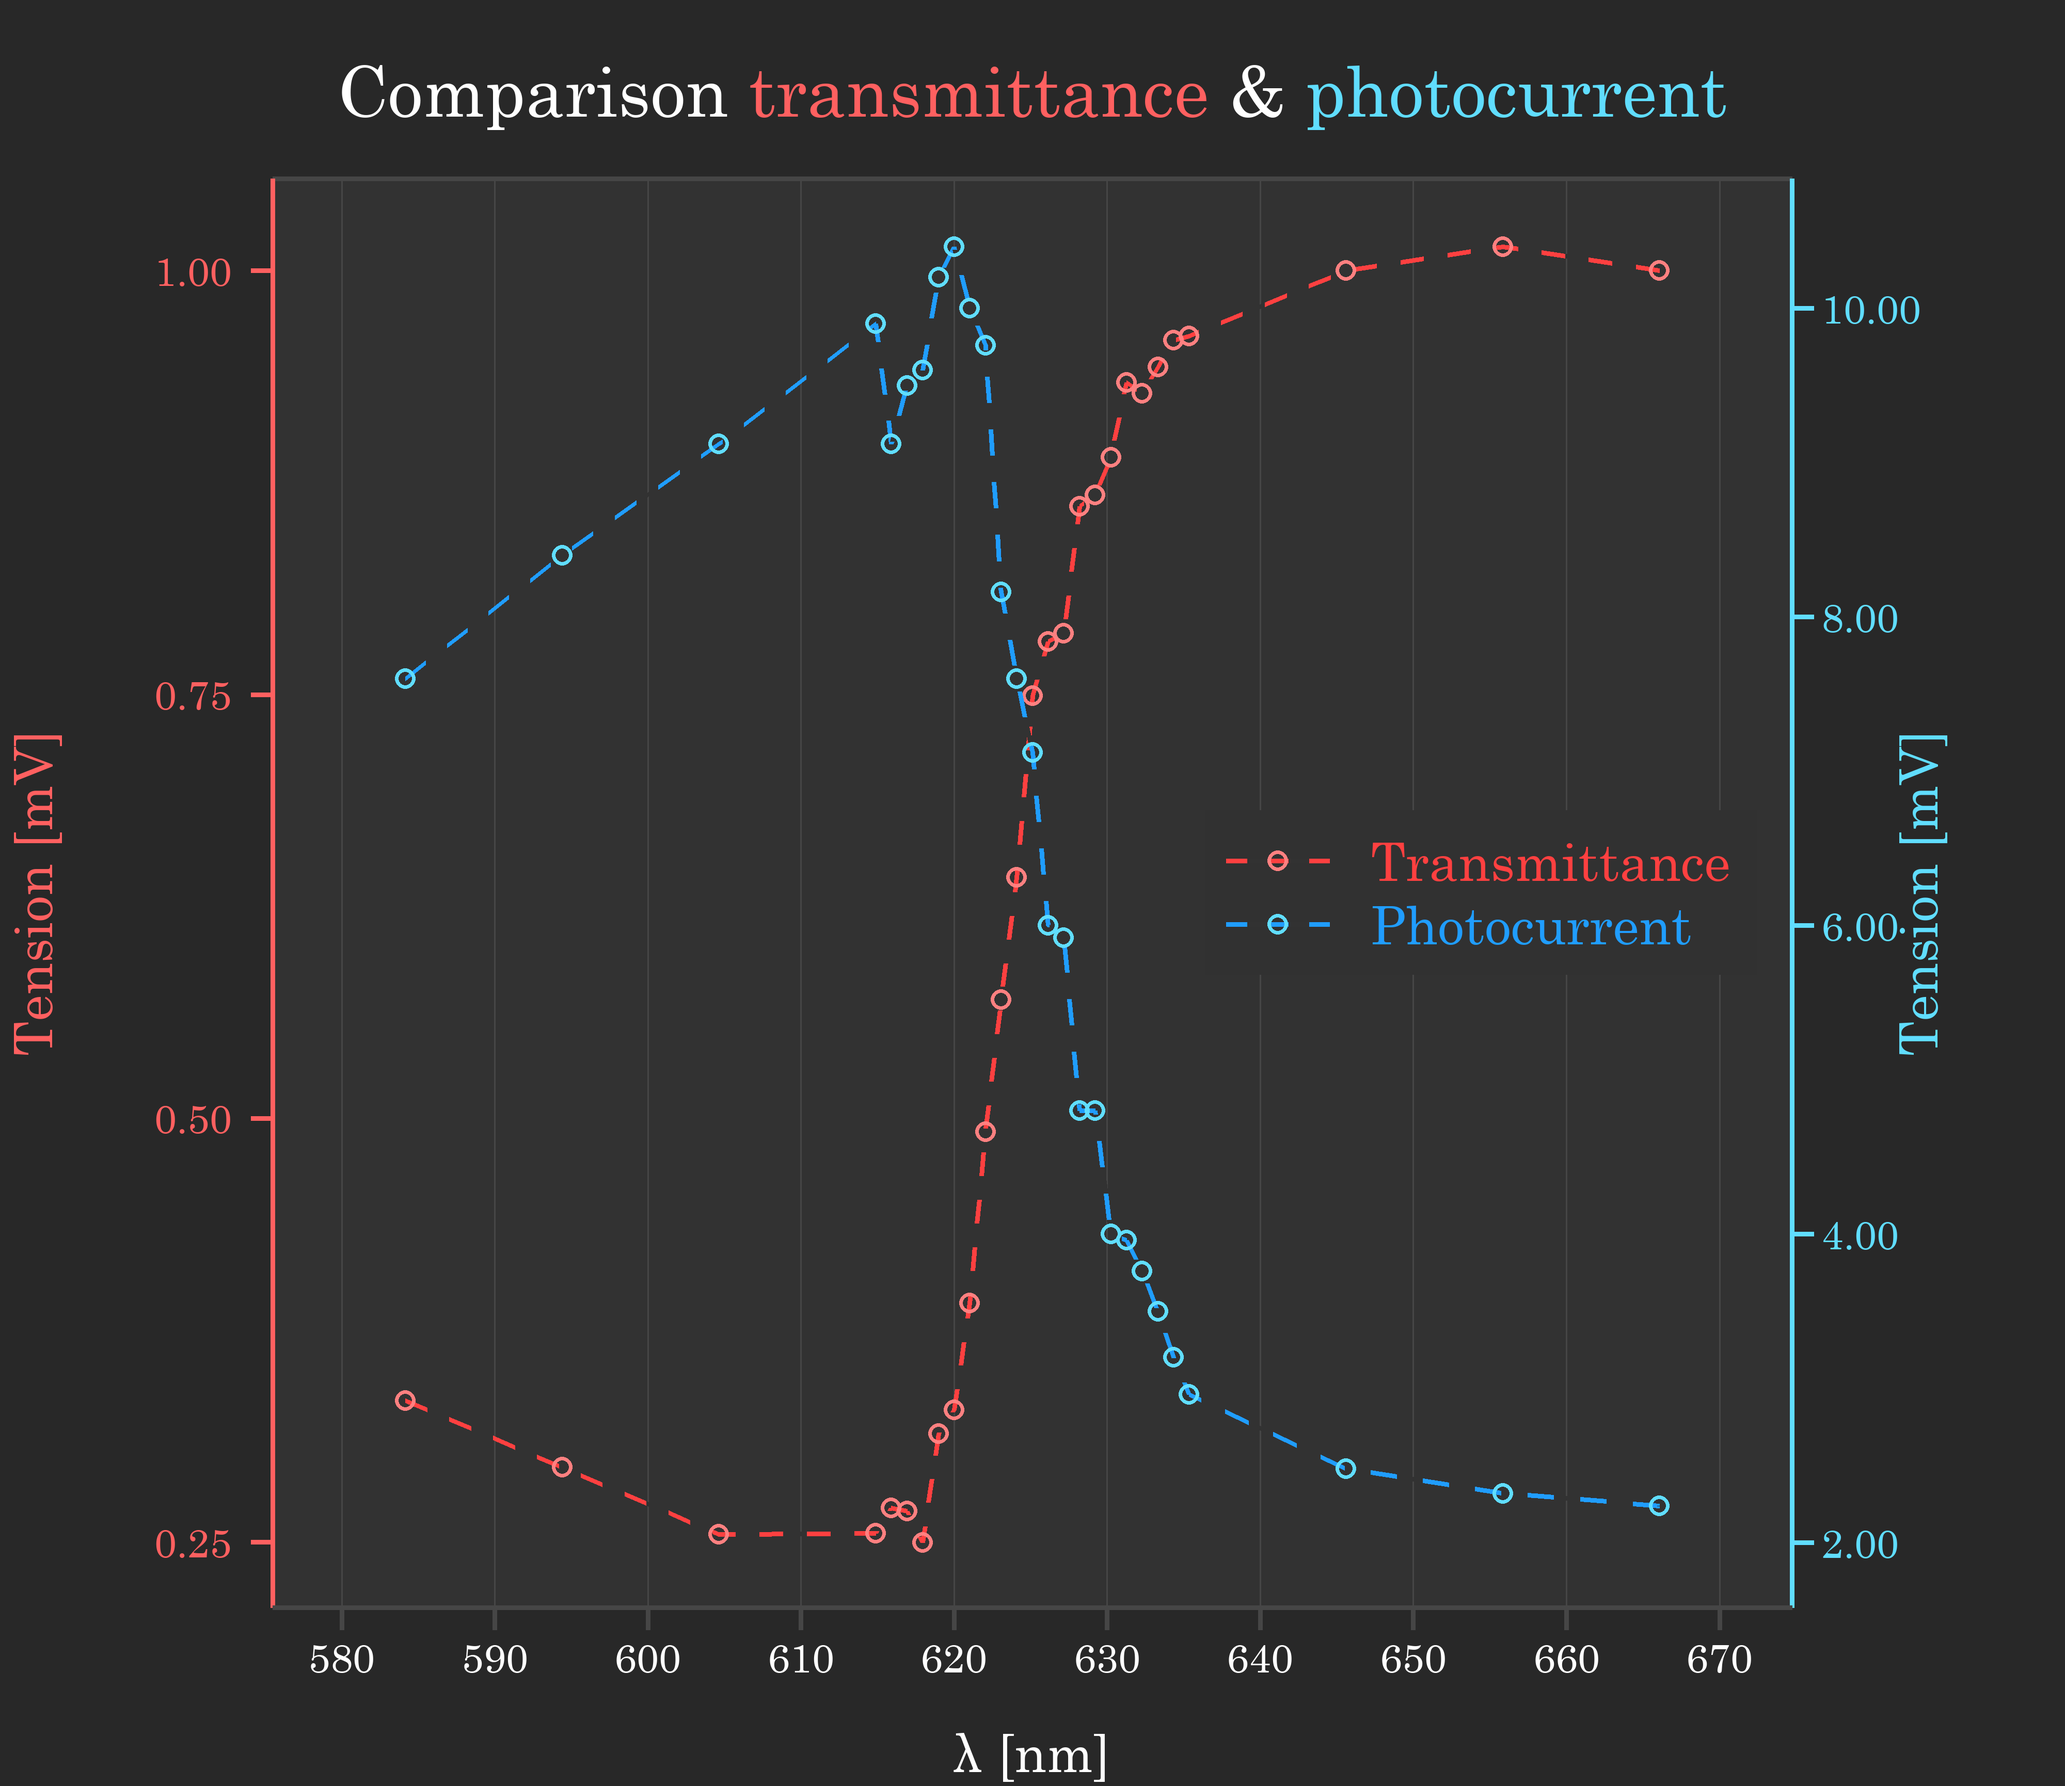
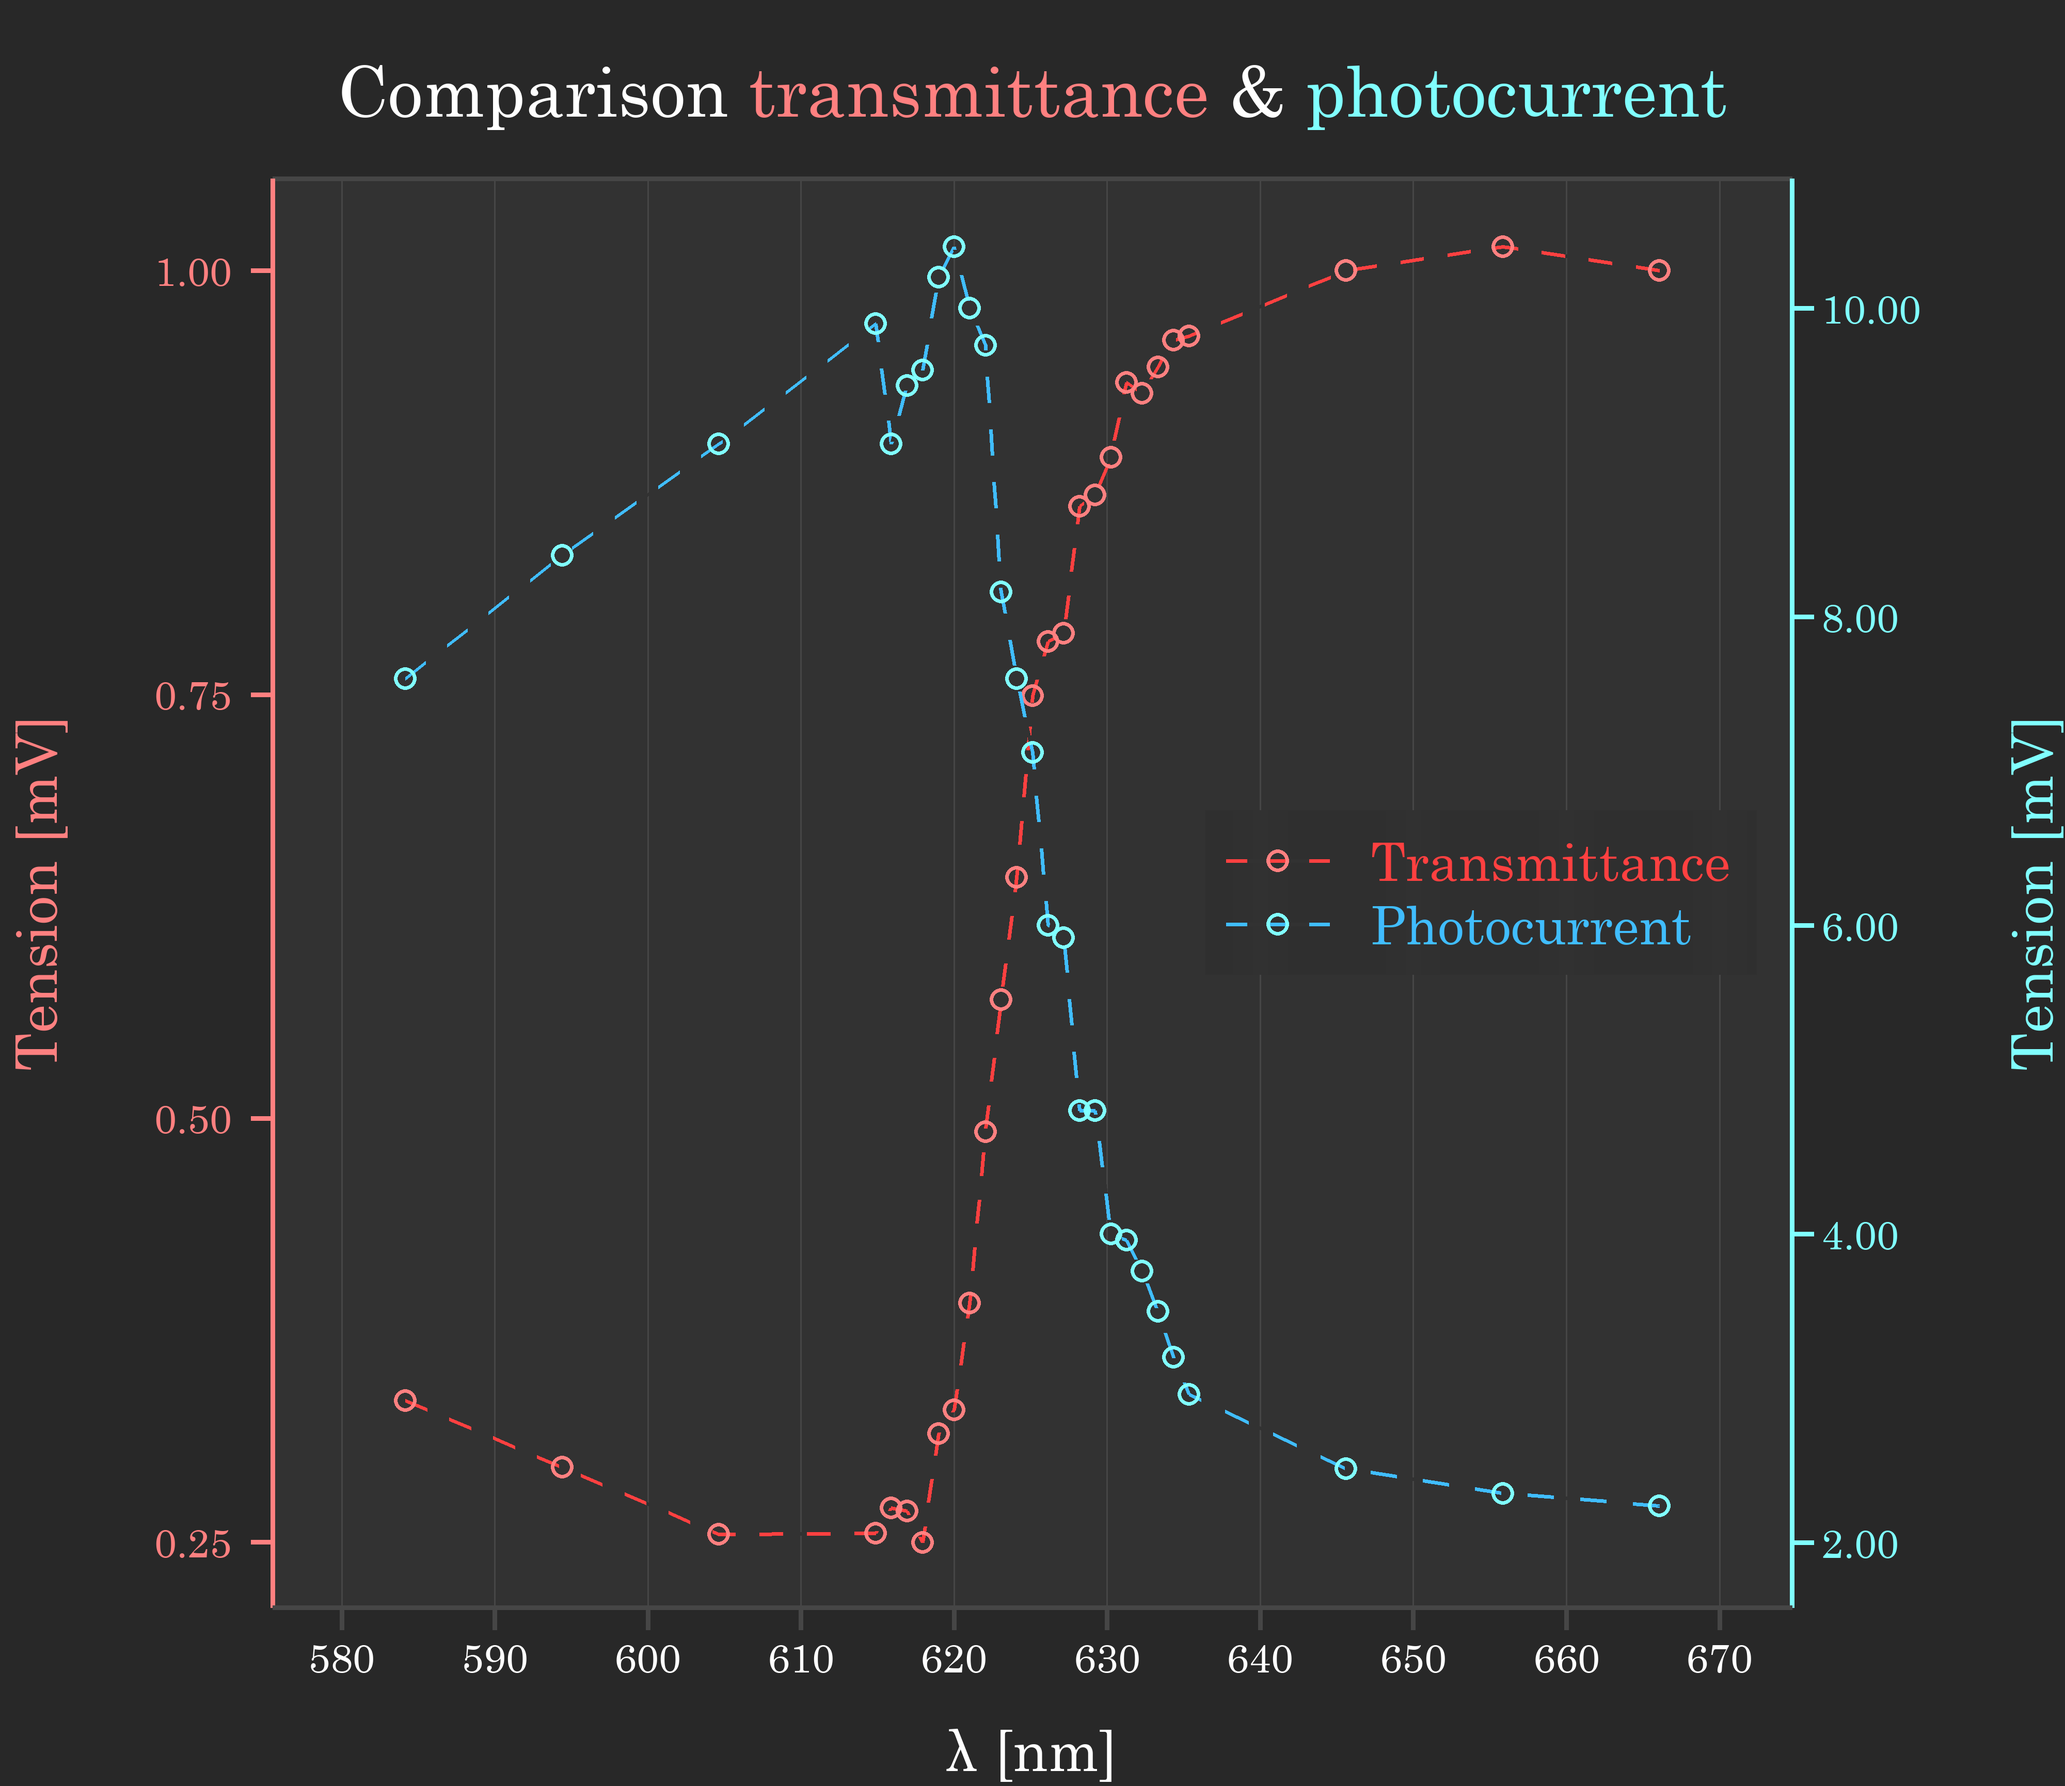
LAST COMMIT v1.X Updated README.md Fixed a sign in ticks of second ax

diff --git a/PLOTS/pomoplot.py b/PLOTS/pomoplot.py
@@ -2295,7 +2295,7 @@ class PomoPlot:
                             fix = 0                
                     fix = 1
                     while fix:
-                        if self.coords_of_ticks[2][-1] < self.spazio_coordinate_native[5]:
+                        if self.coords_of_ticks[2][-1] > self.spazio_coordinate_native[5]:
                             _ = self.coords_of_ticks[2].pop(0)
                         else:
                             fix = 0

diff --git a/README.md b/README.md
@@ -2,10 +2,12 @@
 Final long term version of the COPILOT RCQF aka Pomoshnik, a useful and powerful application with many tools for function and image processing written in Python (frontend) and C (backend)
 
 Some examples of plots done using the Pomoshnik:
-![example1](https://github.com/user-attachments/assets/b6975e91-b815-49e2-ac5e-a33cdd6252fb)
-![example2](https://github.com/user-attachments/assets/b2488405-04b6-4b2a-bdcf-ea90fbc8aa7d)
-![example3](https://github.com/user-attachments/assets/203d6a8b-64b5-4aa0-b104-19a94a162fed)
-![example4](https://github.com/user-attachments/assets/07c3526f-b28e-4718-82ca-9ec050a53666)
+![example1](PLOTS\examples\example6.png)
+![example1](PLOTS\examples\example3.png)
+![example2](PLOTS\examples\example1.png)
+![example3](PLOTS\examples\example2.png)
+![example4](PLOTS\examples\example4.png)
+![example4](PLOTS\examples\example7.png)
 
 New tools are being developed to unify the workflow:
-<img width="254" alt="example5" src="https://github.com/user-attachments/assets/8ef16b26-e35d-4a22-bca4-2dbfa703e63f">
+![example4](PLOTS\examples\example5.png)
